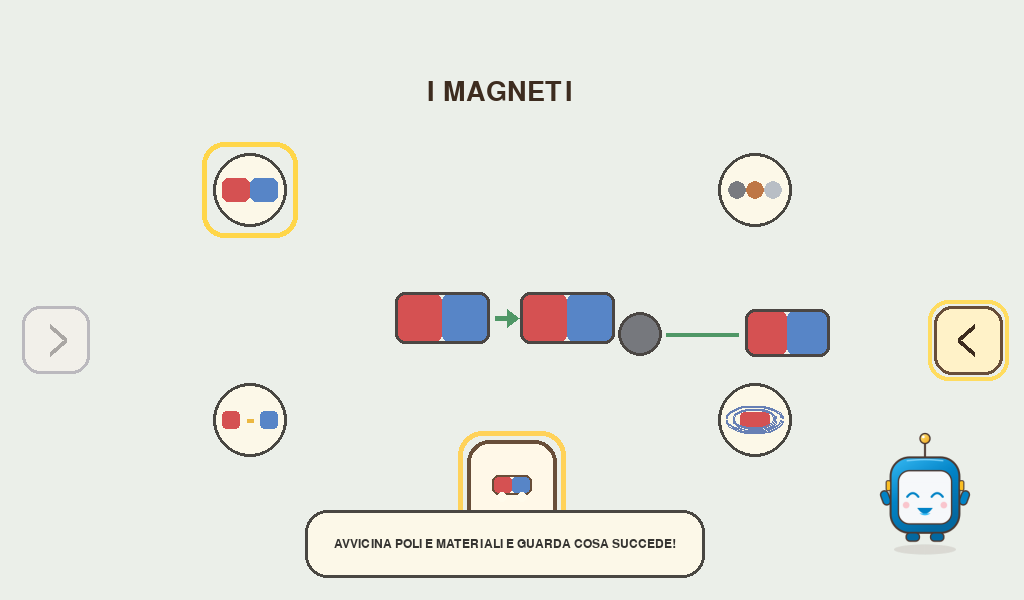
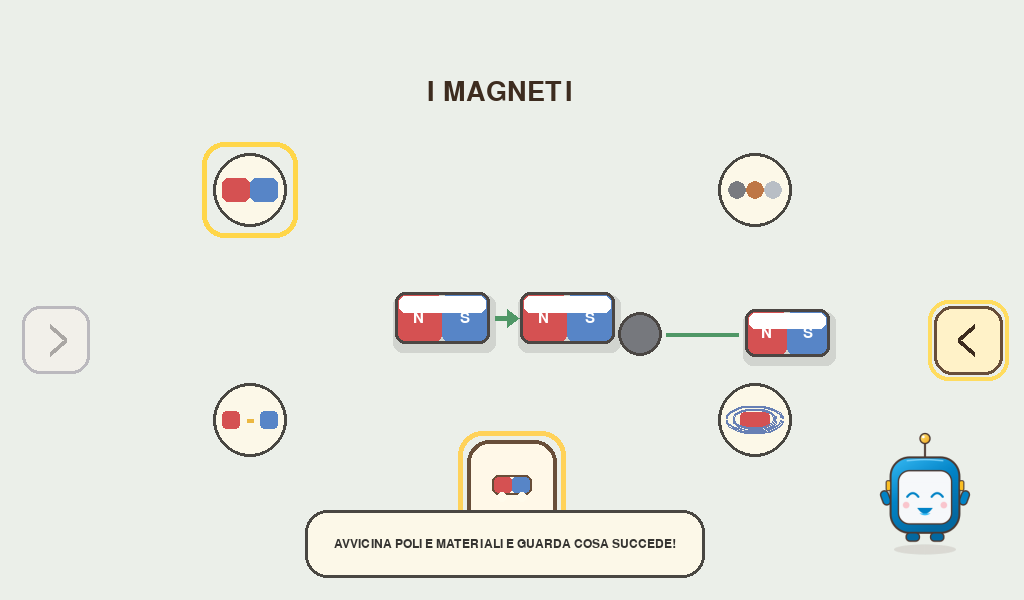
Encyclopedia: iterate machines.magnet - bar shadow/highlight + N/S pole labels
Iterative polish. Magnets now with drop shadow, top highlight, and N/S labels for clarity.

Changed region(s): [[0.375, 0.48, 0.625, 0.6], [0.7188, 0.51, 0.8438, 0.63]]

diff --git a/activities/enciclopedia_greia/pages/magnet.py b/activities/enciclopedia_greia/pages/magnet.py
@@ -229,9 +229,21 @@ class MagnetPage(EncyclopediaPage):
         half = rect.width // 2
         first = (87, 133, 199) if reverse else (213, 81, 82)
         second = (213, 81, 82) if reverse else (87, 133, 199)
+        # Soft shadow
+        shadow = pygame.Surface((rect.width + 8, rect.height + 6), pygame.SRCALPHA)
+        pygame.draw.rect(shadow, (0, 0, 0, 28), shadow.get_rect(), border_radius=10)
+        surface.blit(shadow, (rect.x - 2, rect.y + 3))
         pygame.draw.rect(surface, first, (rect.x, rect.y, half, rect.height), border_radius=10)
         pygame.draw.rect(surface, second, (rect.x + half, rect.y, rect.width - half, rect.height), border_radius=10)
+        # Top highlight
+        pygame.draw.rect(surface, (255, 255, 255, 38), (rect.x + 4, rect.y + 4, rect.width - 8, rect.height // 3), border_radius=6)
         pygame.draw.rect(surface, (75, 70, 67), rect, 3, border_radius=10)
+        # Pole labels
+        font = pygame.font.SysFont(None, 22)
+        for x, label, col in ((rect.x + half // 2, "N", first), (rect.x + half + half // 2, "S", second)):
+            # Use contrasting text
+            txt = font.render(label, True, (255, 255, 255))
+            surface.blit(txt, txt.get_rect(center=(x, rect.centery)))
 
     def _draw_material_sample(self, surface: pygame.Surface) -> None:
         samples = (
